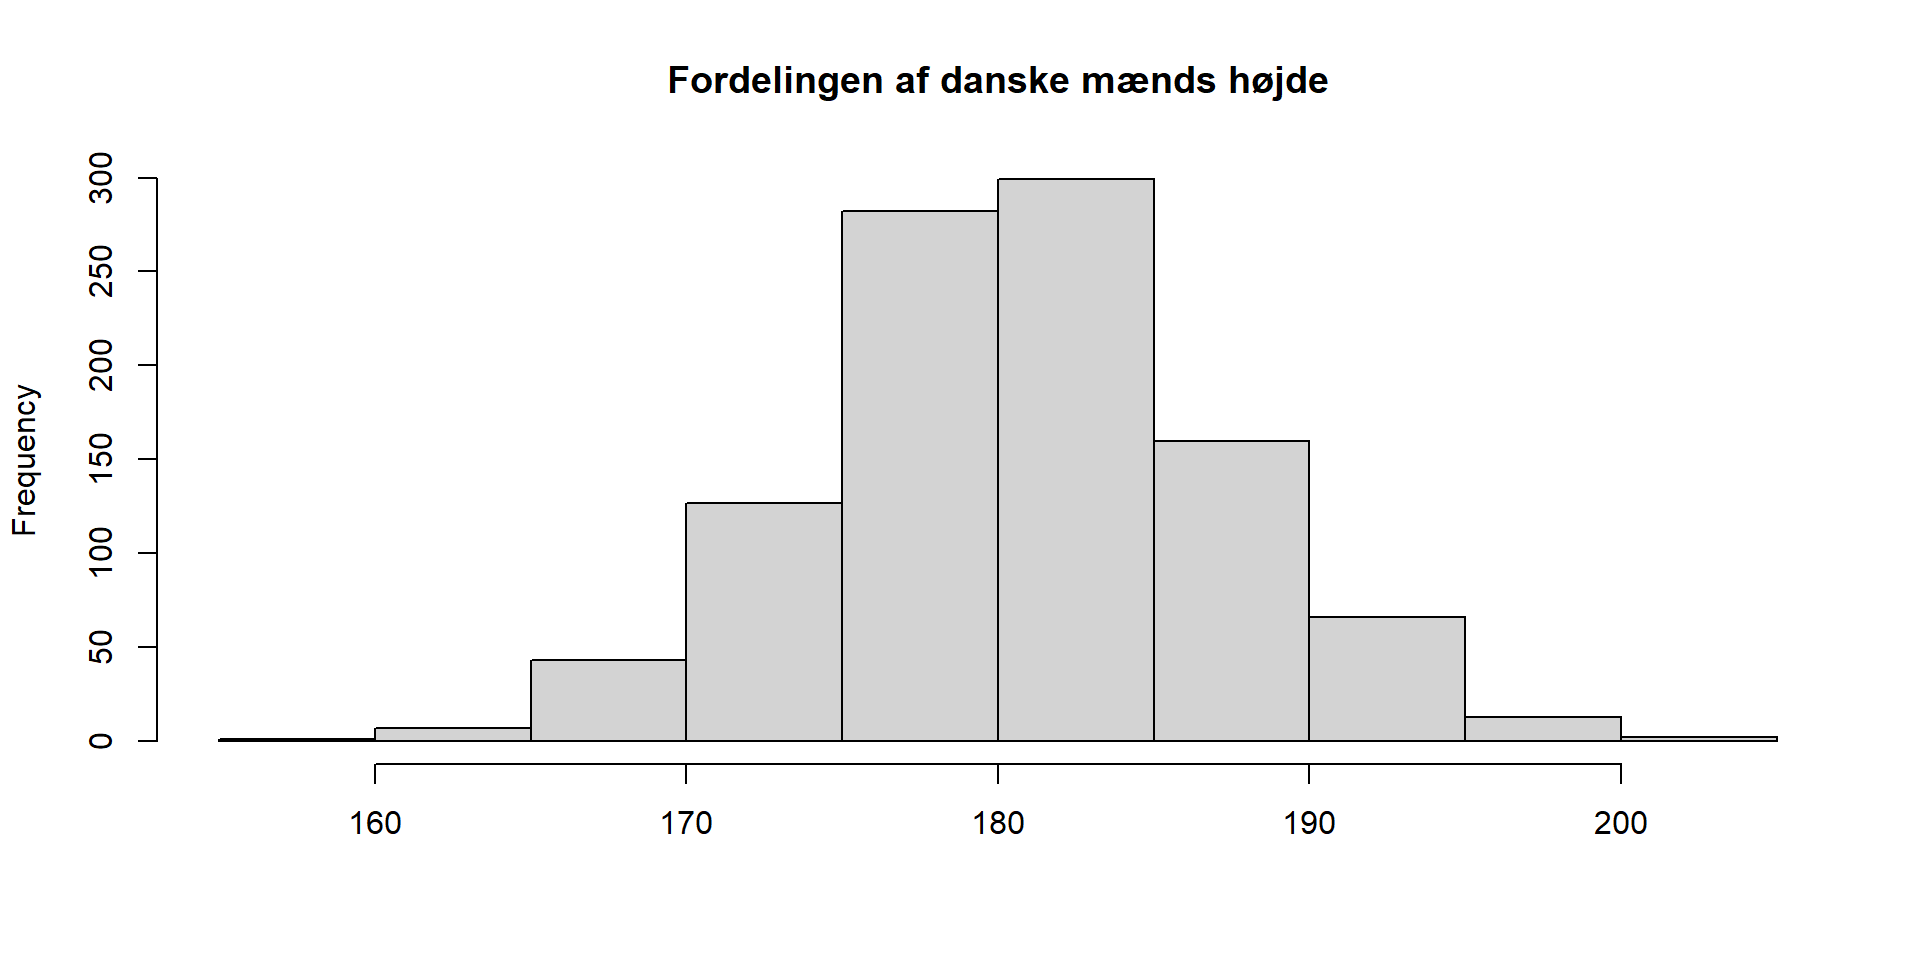
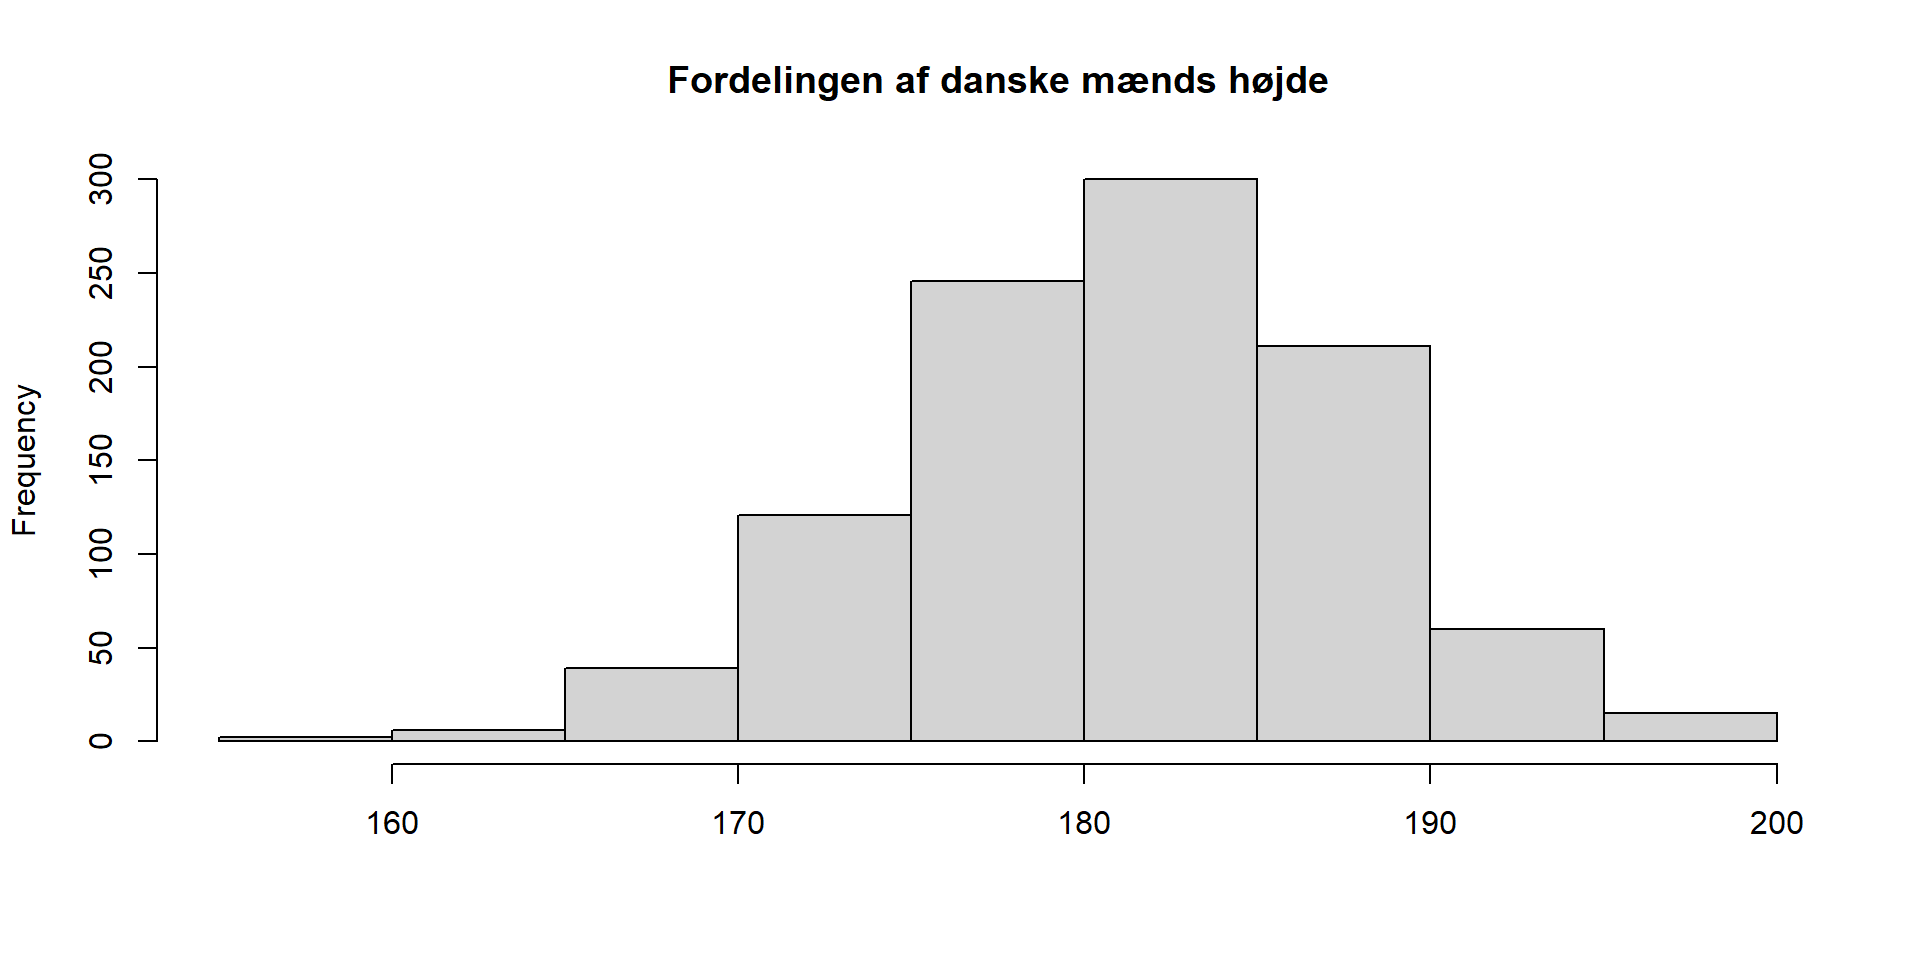
rebuild

diff --git a/docs/slides/normalfordelingen.html b/docs/slides/normalfordelingen.html
@@ -487,7 +487,7 @@
   };
 
   // Store cell data
-  globalThis.qwebrCellDetails = [{"code":"","id":1,"options":{"autorun":"false","classes":"","comment":"","context":"interactive","dpi":72,"editor-font-scale":"0.5","editor-max-height":"","editor-quick-suggestions":"false","editor-word-wrap":"true","fig-cap":"","fig-height":5,"fig-width":7,"label":"unnamed-chunk-1","layout":"horizontal","message":"true","out-height":"","out-width":"700px","output":"true","read-only":"false","results":"markup","warning":"true"}},{"code":"","id":2,"options":{"autorun":"false","classes":"","comment":"","context":"interactive","dpi":72,"editor-font-scale":"0.5","editor-max-height":"","editor-quick-suggestions":"false","editor-word-wrap":"true","fig-cap":"","fig-height":5,"fig-width":7,"label":"unnamed-chunk-2","layout":"horizontal","message":"true","out-height":"","out-width":"700px","output":"true","read-only":"false","results":"markup","warning":"true"}},{"code":"","id":3,"options":{"autorun":"false","classes":"","comment":"","context":"interactive","dpi":72,"editor-font-scale":"0.5","editor-max-height":"","editor-quick-suggestions":"false","editor-word-wrap":"true","fig-cap":"","fig-height":5,"fig-width":7,"label":"unnamed-chunk-3","layout":"horizontal","message":"true","out-height":"","out-width":"700px","output":"true","read-only":"false","results":"markup","warning":"true"}},{"code":"","id":4,"options":{"autorun":"false","classes":"","comment":"","context":"interactive","dpi":72,"editor-font-scale":"0.5","editor-max-height":"","editor-quick-suggestions":"false","editor-word-wrap":"true","fig-cap":"","fig-height":5,"fig-width":7,"label":"unnamed-chunk-4","layout":"horizontal","message":"true","out-height":"","out-width":"700px","output":"true","read-only":"false","results":"markup","warning":"true"}},{"code":"","id":5,"options":{"autorun":"false","classes":"","comment":"","context":"interactive","dpi":72,"editor-font-scale":"0.5","editor-max-height":"","editor-quick-suggestions":"false","editor-word-wrap":"true","fig-cap":"","fig-height":5,"fig-width":7,"label":"unnamed-chunk-5","layout":"horizontal","message":"true","out-height":"","out-width":"700px","output":"true","read-only":"false","results":"markup","warning":"true"}},{"code":"","id":6,"options":{"autorun":"false","classes":"","comment":"","context":"interactive","dpi":72,"editor-font-scale":"0.5","editor-max-height":"","editor-quick-suggestions":"false","editor-word-wrap":"true","fig-cap":"","fig-height":5,"fig-width":7,"label":"unnamed-chunk-6","layout":"horizontal","message":"true","out-height":"","out-width":"700px","output":"true","read-only":"false","results":"markup","warning":"true"}},{"code":"","id":7,"options":{"autorun":"false","classes":"","comment":"","context":"interactive","dpi":72,"editor-font-scale":"0.5","editor-max-height":"","editor-quick-suggestions":"false","editor-word-wrap":"true","fig-cap":"","fig-height":5,"fig-width":7,"label":"unnamed-chunk-7","layout":"horizontal","message":"true","out-height":"","out-width":"700px","output":"true","read-only":"false","results":"markup","warning":"true"}},{"code":"","id":8,"options":{"autorun":"false","classes":"","comment":"","context":"interactive","dpi":72,"editor-font-scale":"0.5","editor-max-height":"","editor-quick-suggestions":"false","editor-word-wrap":"true","fig-cap":"","fig-height":5,"fig-width":7,"label":"unnamed-chunk-8","layout":"horizontal","message":"true","out-height":"","out-width":"700px","output":"true","read-only":"false","results":"markup","warning":"true"}},{"code":"","id":9,"options":{"autorun":"false","classes":"","comment":"","context":"interactive","dpi":72,"editor-font-scale":"0.5","editor-max-height":"","editor-quick-suggestions":"false","editor-word-wrap":"true","fig-cap":"","fig-height":5,"fig-width":7,"label":"unnamed-chunk-9","layout":"horizontal","message":"true","out-height":"","out-width":"700px","output":"true","read-only":"false","results":"markup","warning":"true"}}];
+  globalThis.qwebrCellDetails = [{"code":"","id":1,"options":{"autorun":"false","classes":"","comment":"","context":"interactive","dpi":72,"editor-font-scale":"0.5","editor-max-height":"","editor-quick-suggestions":"false","editor-word-wrap":"true","fig-cap":"","fig-height":5,"fig-width":7,"label":"unnamed-chunk-1","layout":"horizontal","message":"true","out-height":"","out-width":"700px","output":"true","read-only":"false","results":"markup","warning":"true"}},{"code":"","id":2,"options":{"autorun":"false","classes":"","comment":"","context":"interactive","dpi":72,"editor-font-scale":"0.5","editor-max-height":"","editor-quick-suggestions":"false","editor-word-wrap":"true","fig-cap":"","fig-height":5,"fig-width":7,"label":"unnamed-chunk-2","layout":"horizontal","message":"true","out-height":"","out-width":"700px","output":"true","read-only":"false","results":"markup","warning":"true"}},{"code":"","id":3,"options":{"autorun":"false","classes":"","comment":"","context":"interactive","dpi":72,"editor-font-scale":"0.5","editor-max-height":"","editor-quick-suggestions":"false","editor-word-wrap":"true","fig-cap":"","fig-height":5,"fig-width":7,"label":"unnamed-chunk-3","layout":"horizontal","message":"true","out-height":"","out-width":"700px","output":"true","read-only":"false","results":"markup","warning":"true"}},{"code":"","id":4,"options":{"autorun":"false","classes":"","comment":"","context":"interactive","dpi":72,"editor-font-scale":"0.5","editor-max-height":"","editor-quick-suggestions":"false","editor-word-wrap":"true","fig-cap":"","fig-height":5,"fig-width":7,"label":"unnamed-chunk-4","layout":"horizontal","message":"true","out-height":"","out-width":"700px","output":"true","read-only":"false","results":"markup","warning":"true"}},{"code":"","id":5,"options":{"autorun":"false","classes":"","comment":"","context":"interactive","dpi":72,"editor-font-scale":"0.5","editor-max-height":"","editor-quick-suggestions":"false","editor-word-wrap":"true","fig-cap":"","fig-height":5,"fig-width":7,"label":"unnamed-chunk-5","layout":"horizontal","message":"true","out-height":"","out-width":"700px","output":"true","read-only":"false","results":"markup","warning":"true"}},{"code":"","id":6,"options":{"autorun":"false","classes":"","comment":"","context":"interactive","dpi":72,"editor-font-scale":"0.5","editor-max-height":"","editor-quick-suggestions":"false","editor-word-wrap":"true","fig-cap":"","fig-height":5,"fig-width":7,"label":"unnamed-chunk-6","layout":"horizontal","message":"true","out-height":"","out-width":"700px","output":"true","read-only":"false","results":"markup","warning":"true"}},{"code":"","id":7,"options":{"autorun":"false","classes":"","comment":"","context":"interactive","dpi":72,"editor-font-scale":"0.5","editor-max-height":"","editor-quick-suggestions":"false","editor-word-wrap":"true","fig-cap":"","fig-height":5,"fig-width":7,"label":"unnamed-chunk-7","layout":"horizontal","message":"true","out-height":"","out-width":"700px","output":"true","read-only":"false","results":"markup","warning":"true"}},{"code":"","id":8,"options":{"autorun":"false","classes":"","comment":"","context":"interactive","dpi":72,"editor-font-scale":"0.5","editor-max-height":"","editor-quick-suggestions":"false","editor-word-wrap":"true","fig-cap":"","fig-height":5,"fig-width":7,"label":"unnamed-chunk-8","layout":"horizontal","message":"true","out-height":"","out-width":"700px","output":"true","read-only":"false","results":"markup","warning":"true"}},{"code":"","id":9,"options":{"autorun":"false","classes":"","comment":"","context":"interactive","dpi":72,"editor-font-scale":"0.5","editor-max-height":"","editor-quick-suggestions":"false","editor-word-wrap":"true","fig-cap":"","fig-height":5,"fig-width":7,"label":"unnamed-chunk-9","layout":"horizontal","message":"true","out-height":"","out-width":"700px","output":"true","read-only":"false","results":"markup","warning":"true"}},{"code":"","id":10,"options":{"autorun":"false","classes":"","comment":"","context":"interactive","dpi":72,"editor-font-scale":"0.5","editor-max-height":"","editor-quick-suggestions":"false","editor-word-wrap":"true","fig-cap":"","fig-height":5,"fig-width":7,"label":"unnamed-chunk-10","layout":"horizontal","message":"true","out-height":"","out-width":"700px","output":"true","read-only":"false","results":"markup","warning":"true"}}];
 
   </script>
   <script type="module">
@@ -2069,11 +2069,11 @@ globalThis.qwebrCreateMonacoEditorInstance = function (cellData) {
 <h2>Hvordan kan vi beskrive alle de her observationer?</h2>
 <div class="cell">
 <div class="cell-output cell-output-stdout">
-<pre><code> [1] 189.1 177.8 176.2 182.8 175.6 178.7 168.7 185.1 169.7 190.0 173.6 168.9
-[13] 196.6 181.9 172.6 179.6 176.4 189.4 183.1 184.1 172.3 177.7 185.6 182.5
-[25] 186.9 178.6 182.8 184.6 169.2 190.9 178.7 182.9 176.0 182.1 175.9 164.1
-[37] 182.0 183.4 180.6 178.9 178.5 188.8 162.7 187.7 185.2 182.6 166.4 181.3
-[49] 180.8 181.7</code></pre>
+<pre><code> [1] 183.0 166.1 176.6 197.3 173.6 180.7 176.8 186.1 182.8 180.5 163.3 182.0
+[13] 178.2 180.9 183.9 181.0 184.3 178.4 184.5 187.5 194.3 180.5 181.2 174.9
+[25] 174.5 179.7 168.1 189.3 181.7 182.6 169.8 182.5 171.2 179.9 180.5 189.1
+[37] 182.8 177.7 182.8 188.6 188.4 189.2 183.1 191.5 165.3 188.5 181.7 190.9
+[49] 172.5 178.6</code></pre>
 </div>
 </div>
 <div class="fragment">
@@ -2474,6 +2474,32 @@ f(x) = \frac{1}{\sqrt{2\pi\sigma^2}} e^{-\frac{(x-\mu)^2}{2\sigma^2}}
 <noscript>Please enable JavaScript to experience the dynamic code cell content on this page.</noscript>
 </div></div>
 </section>
+<section id="øvelse-8---og-det-vigtigste-tal-i-skal-kende" class="slide level2">
+<h2>Øvelse 8 - og det vigtigste tal I skal kende!</h2>
+<div class="columns">
+<div class="column">
+<p>Hvis vi vil have 95% af observationerne, hvilket interval (centreret om 0) skal vi så have?</p>
+<aside class="notes">
+<p>Det der ligger uden for de 95% er 1 - 0.95 = 0.05. Det ligger symmetrisk, så halvdelen på den ene side og den anden halvdel på den anden.</p>
+<p>0.05/2 = 0.025</p>
+<p>Vi kender sandsynligheden, så vi skal bruge qnorm for at finde værdien</p>
+<p>Og er er lige mange på hver side, så det giver os den nedre, den øvre er samme absolutte værdi.</p>
+<style type="text/css">
+        span.MJX_Assistive_MathML {
+          position:absolute!important;
+          clip: rect(1px, 1px, 1px, 1px);
+          padding: 1px 0 0 0!important;
+          border: 0!important;
+          height: 1px!important;
+          width: 1px!important;
+          overflow: hidden!important;
+          display:block!important;
+      }</style></aside>
+</div><div class="column">
+<div id="qwebr-insertion-location-8"></div>
+<noscript>Please enable JavaScript to experience the dynamic code cell content on this page.</noscript>
+</div></div>
+</section>
 <section id="gennemsnitshøjden-er-jo-ikke-0" class="slide level2">
 <h2>Gennemsnitshøjden er jo ikke 0?!</h2>
 <p>Eksamensopgaver omhandler i almindelighed normalfordelte data.</p>
@@ -2550,12 +2576,8 @@ f(x) = \frac{1}{\sqrt{2\pi\sigma^2}} e^{-\frac{(x-\mu)^2}{2\sigma^2}}
 <section id="skalering-af-data---begge-parametre" class="slide level2">
 <h2>Skalering af data - begge parametre</h2>
 <p>Nu med tallene 1 til 9</p>
-<div id="qwebr-insertion-location-8"></div>
+<div id="qwebr-insertion-location-9"></div>
 <noscript>Please enable JavaScript to experience the dynamic code cell content on this page.</noscript>
-</section>
-<section id="notation" class="slide level2">
-<h2>Notation</h2>
-<p>Den standardiserede normalfordeling skriver vi som N(0,1) En normalfordeling (der ikke er standardiseret) skriver vi som <span class="math inline">\(N(\mu, \sigma)\)</span> Når vi har data, X, der er normalfordelt, skriver vi det som X ~ <span class="math inline">\(N(\mu, \sigma)\)</span></p>
 </section>
 <section id="hvad-kan-vi-bruge-det-til" class="slide level2">
 <h2>Hvad kan vi bruge det til?</h2>
@@ -2564,13 +2586,19 @@ f(x) = \frac{1}{\sqrt{2\pi\sigma^2}} e^{-\frac{(x-\mu)^2}{2\sigma^2}}
 <p>Det kan vi skrive som:</p>
 <p>P(X&lt;170)</p>
 <p>Skalerer vi X, skal vi også skalere 170:</p>
-<p><span class="math inline">\(P(X&lt;170) = P(X &lt; \frac{170 - 181}{6.5}) = -1.692\)</span></p>
+<p><span class="math inline">\(P(X&lt;170) = P(\frac{X-\mu}{\sigma} &lt; \frac{170 - 181}{6.5}) = -1.692\)</span></p>
 <div class="cell">
 <div class="sourceCode cell-code" id="cb14"><pre class="sourceCode numberSource r number-lines code-with-copy"><code class="sourceCode r"><span id="cb14-1"><a></a><span class="fu">pnorm</span>(<span class="sc">-</span><span class="fl">1.692</span>)</span></code><button title="Copy to Clipboard" class="code-copy-button"><i class="bi"></i></button></pre></div>
 <div class="cell-output cell-output-stdout">
 <pre><code>[1] 0.04532299</code></pre>
 </div>
 </div>
+</section>
+<section id="notation" class="slide level2">
+<h2>Notation</h2>
+<p>Den standardiserede normalfordeling skriver vi som N(0,1) En normalfordeling (der ikke er standardiseret) skriver vi som <span class="math inline">\(N(\mu, \sigma)\)</span> Når vi har data, X, der er normalfordelt, skriver vi det som X ~ <span class="math inline">\(N(\mu, \sigma)\)</span></p>
+<p>Og når vi normaliserer X i udtrykket for sandsynligheden får vi <span class="math inline">\(\frac{X-\mu}{\sigma}\)</span>. Det gider vi sjældent skrive, så i stedet skriver vi Z. Lagde I mærke til Z på plottet af normalfordelingen? Ikke alene normaliserer vi X til at have en bestemt middelværdi, vi måler den også i enheder af standardafvigelsen. Den z-score vi så på grafen. Det er det Z.</p>
+<p>Det betyder også at vi undertiden får beregnet Z og bagefter skal finde ud af hvad X egentlig er. Hvis vi ved hvordan vi går fra X til Z (trækker mu fra, og dividerer med sigma), så ved vi også hvordan vi går fra Z til X. Ganger med sigma og lægger mu til.</p>
 </section>
 <section id="øvelser" class="slide level2">
 <h2>Øvelser</h2>
@@ -2623,7 +2651,7 @@ f(x) = \frac{1}{\sqrt{2\pi\sigma^2}} e^{-\frac{(x-\mu)^2}{2\sigma^2}}
 <section id="endnu-en-øvelse" class="slide level2">
 <h2>Endnu en øvelse</h2>
 <p>For en population af normalfordelte værdier ved vi at 40% af værdierne er større end 0.1, og 70% af værdierne er mindre end 1. Hvad er middelværdi og spredning i denne normalfordeling?</p>
-<div id="qwebr-insertion-location-9"></div>
+<div id="qwebr-insertion-location-10"></div>
 <noscript>Please enable JavaScript to experience the dynamic code cell content on this page.</noscript>
 </section>
 <section id="løsning" class="slide level2">
@@ -2699,14 +2727,19 @@ f(x) = \frac{1}{\sqrt{2\pi\sigma^2}} e^{-\frac{(x-\mu)^2}{2\sigma^2}}
 <section id="øvelse---manglende-procentil" class="slide level2">
 <h2>Øvelse - Manglende procentil:</h2>
 <p>En normalfordelt population har middelværdi <span class="math inline">\(\mu = 12.5\)</span> og standardafvigelse <span class="math inline">\(\sigma = 3.2\)</span>. Hvor stor en andel af værdierne er mindre end 10?</p>
-</section>
-<section id="øvelse---manglende-standardafvigelse" class="slide level2">
-<h2>Øvelse - Manglende standardafvigelse:</h2>
-<p>I en normalfordelt population er middelværdien <span class="math inline">\(\mu = 85\)</span> og 25% af værdierne er større end 95. Hvad er standardafvigelsen <span class="math inline">\(\sigma\)</span> for denne fordeling?</p>
+<p>P(X &lt; 10 ) = ?</p>
+<p>P(Z &lt; 10 - mu / sigma) pnorm((10-12.5)/3.2) ## Øvelse - Manglende standardafvigelse: I en normalfordelt population er middelværdien <span class="math inline">\(\mu = 85\)</span> og 25% af værdierne er større end 95. Hvad er standardafvigelsen <span class="math inline">\(\sigma\)</span> for denne fordeling?</p>
+<p>P(X&gt;95) = 0.25 P(X&lt;95) = 1-0.25 = 0.75 P(Z&lt;(95-mu)/sigma) = 0.75 (95-85)/sigma = qnorm(0.75) 10/qnorm(0.75) = sigma</p>
 </section>
 <section id="øvelse---manglende-værdi-ved-given-procentil" class="slide level2">
 <h2>Øvelse - Manglende værdi ved given procentil:</h2>
 <p>En normalfordelt variabel har middelværdi <span class="math inline">\(\mu = 50\)</span> og standardafvigelse <span class="math inline">\(\sigma = 8\)</span>. Hvilken værdi <span class="math inline">\(x\)</span> er der tale om, hvis 90% af observationerne er mindre end denne værdi?</p>
+<p>P(X&lt;x) = 0.9 qnorm(0.9)</p>
+<div class="cell">
+<div class="cell-output cell-output-stdout">
+<pre><code>[1] 60.25241</code></pre>
+</div>
+</div>
 </section>
 <section id="øvelse---manglende-middelværdi-anden-variant" class="slide level2">
 <h2>Øvelse - Manglende middelværdi (anden variant):</h2>
@@ -2725,7 +2758,8 @@ f(x) = \frac{1}{\sqrt{2\pi\sigma^2}} e^{-\frac{(x-\mu)^2}{2\sigma^2}}
 </div>
 </div>
 <p>Husk - vi bruger x-bar når vi ikke kender den sande mu.</p>
-<p>Vi skal huske at have turen tilbage fra normaliseringen. Den er faktisk ikke berørt endnu.</p>
+<p>Pointen om at pnorm og qnorm giver os MINDRE END!</p>
+<p>tallet 1.96</p>
 
 
 </section>

diff --git a/docs/slides/SEM.html b/docs/slides/SEM.html
@@ -133,9 +133,11 @@
 </div>
 
 </section>
-<section class="slide level2">
-
-<p>Normalfordelingen var vigtig fordi middelværdien af mange stikprøver følger normalfordelingen.</p>
+<section id="hvorfor-var-normalfordelingen-vigtig" class="slide level2">
+<h2>Hvorfor var normalfordelingen vigtig?</h2>
+<p>Ja, den er jo vigtig fordi I ofte vil få en typeopgave hvor I skal demonstrere at I kan bruge qnorm og pnorm til at regne frem og tilbage, og finde ting der mangler og den slags.</p>
+<p>Men den var også vigtig fordi den centrale grænseværdisætning fortæller os, at tager vi tilstrækkeligt mange stikprøver, så vil middelværdierne af de stikprøver følge normalfordelingen (tilnærmelsesvist). Den normalfordeling har en middelværdi der er lig med den “sande” middelværdi for populationen. Det er ikke den middelværdi I har beregnet.</p>
+<p>Altså bortset fra at der er en populær typeopgave hvor I testes i Normalfordelingen var vigtig fordi middelværdien af mange stikprøver følger normalfordelingen.</p>
 <p>Men hvilken normalfordeling? Ikke en hvor sigma er standardafvigelsen.</p>
 <p>for standardafvigelsen beskriver jo hvordan observationerne i vores stikprøve afviger fra middelværdien. Det vi er ude efter er oplysninger om hvordan vores middelværdi x, der er et estimat på den “sande” middelværdi mu, afviger fra den sande værdi.</p>
 <p>Til det formål bruger vi “SEM”, Standard Error of the Mean, der beskriver netop spredningen på vores estimat af middelværdien.</p>
@@ -154,7 +156,8 @@
 <p>Vi får oplyst at en gruppe patienter deles op i to, kontrol (318 patienter) og behandling (intervention, 323 patienter). De får målt deres blodtryk før behandling (baseline), og efter 12 måneders behandling. Forskellen i systolisk blodtryk mellem baseline og efter 12 måneder, oplyses som “diff”. For kontrolgruppen får vi oplyst at forskellen er -16.6 mmHg og spredningen er 19.9</p>
 <p>For interventionsgruppen er de tilsvarende tal -19.6 og 17.4</p>
 <p>Vi skal nu finde ud af om der er et signifikant fald i blodtrykket for interventionsgruppen.</p>
-<p>Det ser jo ud til at det falder. Forskellen er -19.6, men er det signifikant? Det kræver at vi ved hvor sikker den middelværdi er. Og til det skal vi bruge SEM:</p>
+<p>Det ser jo ud til at det falder. Forskellen er -19.6, men er det signifikant? Kunne det tænkes at den sande middelværdi er 0?</p>
+<p>Det kræver at vi ved hvor sikker den middelværdi er. Og til det skal vi bruge SEM:</p>
 <div class="cell">
 <div class="cell-output cell-output-stdout">
 <pre><code>[1] 0.9681619</code></pre>
@@ -187,6 +190,9 @@
 </section>
 <section id="konfidensintervaller" class="slide level2">
 <h2>konfidensintervaller</h2>
+</section>
+<section id="hypotesetests" class="slide level2">
+<h2>Hypotesetests</h2>
 
 
 </section>
